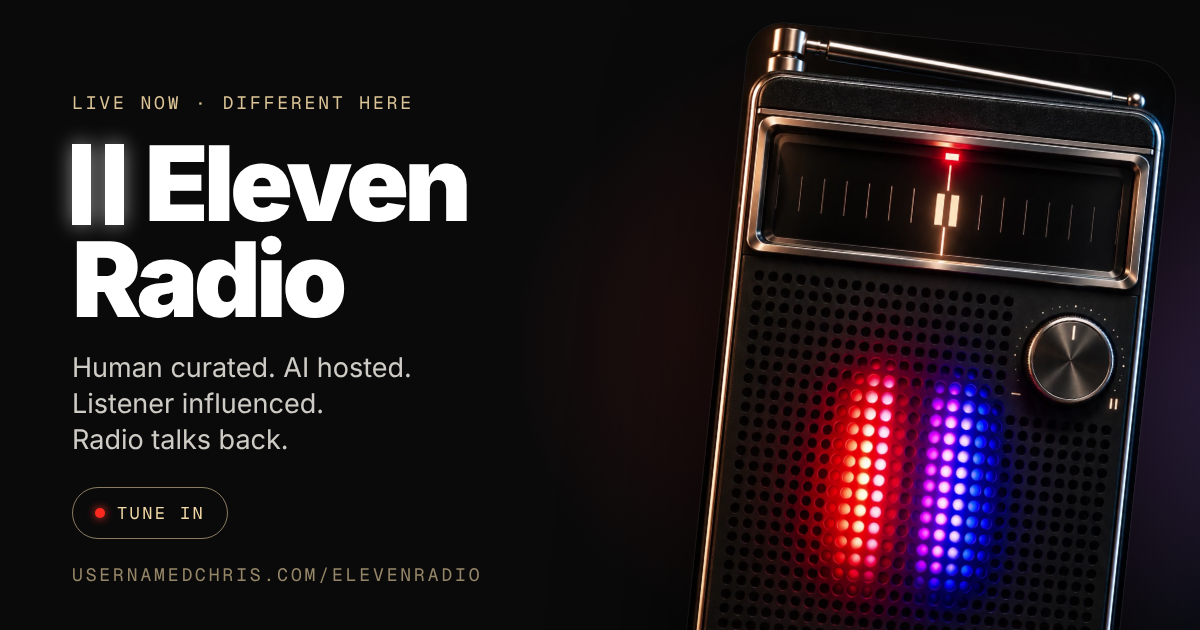
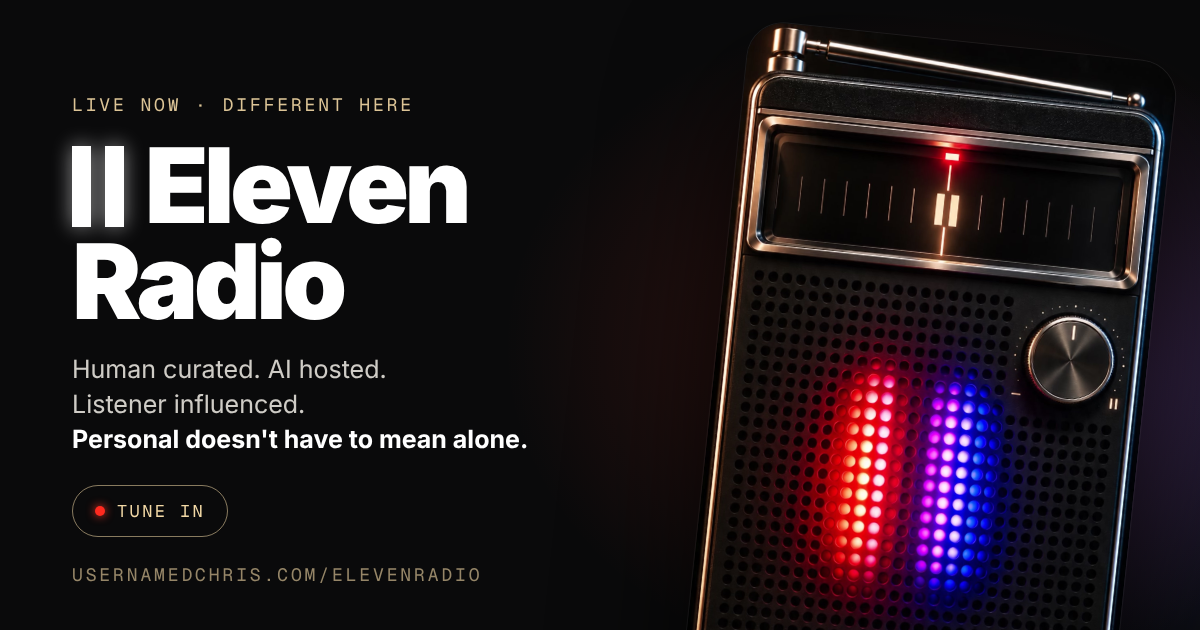
Personal doesn't have to mean alone

diff --git a/elevenradio/index.html b/elevenradio/index.html
@@ -6,13 +6,13 @@
 <title>ElevenRadio</title>
 <meta name="description" content="ElevenRadio. Human curated, AI hosted, listener influenced. Tune in.">
 <meta property="og:title" content="ElevenRadio">
-<meta property="og:description" content="Human curated. AI hosted. Listener influenced. Radio talks back.">
-<meta property="og:image" content="https://usernamedchris.com/media/share-elevenradio.png?v=4">
+<meta property="og:description" content="Human curated. AI hosted. Listener influenced. Personal doesn't have to mean alone.">
+<meta property="og:image" content="https://usernamedchris.com/media/share-elevenradio.png?v=5">
 <meta property="og:image:width" content="1200">
 <meta property="og:image:height" content="630">
 <meta property="og:type" content="website">
 <meta name="twitter:title" content="ElevenRadio">
-<meta name="twitter:image" content="https://usernamedchris.com/media/share-elevenradio.png?v=4">
+<meta name="twitter:image" content="https://usernamedchris.com/media/share-elevenradio.png?v=5">
 <meta property="og:url" content="https://usernamedchris.com/elevenradio/">
 <meta name="twitter:card" content="summary_large_image">
 <meta name="color-scheme" content="dark">

diff --git a/index.html b/index.html
@@ -493,7 +493,7 @@ elevenlabs-convai{position:fixed;bottom:20px;right:20px;z-index:9999;--elevenlab
   <div class="st-copy">
     <p class="k">Live now</p>
     <h3 class="st-name"><i class="g11" aria-hidden="true"></i>ElevenRadio</h3>
-    <p class="what">Human curated. AI hosted. Listener influenced. Live DJ interaction, as we experiment with the shape of what radio can become. Radio talks back.</p>
+    <p class="what">Human curated. AI hosted. Listener influenced. Live DJ interaction, as we experiment with the shape of what radio can become. Personal doesn't have to mean alone.</p>
     <a class="cta" href="/elevenradio/" target="_blank" rel="noopener">Tune in →</a>
   </div>
   <div class="now"><i></i><span>Now playing</span><b id="npTitle">Tuning in</b><em id="npArtist"></em></div>
